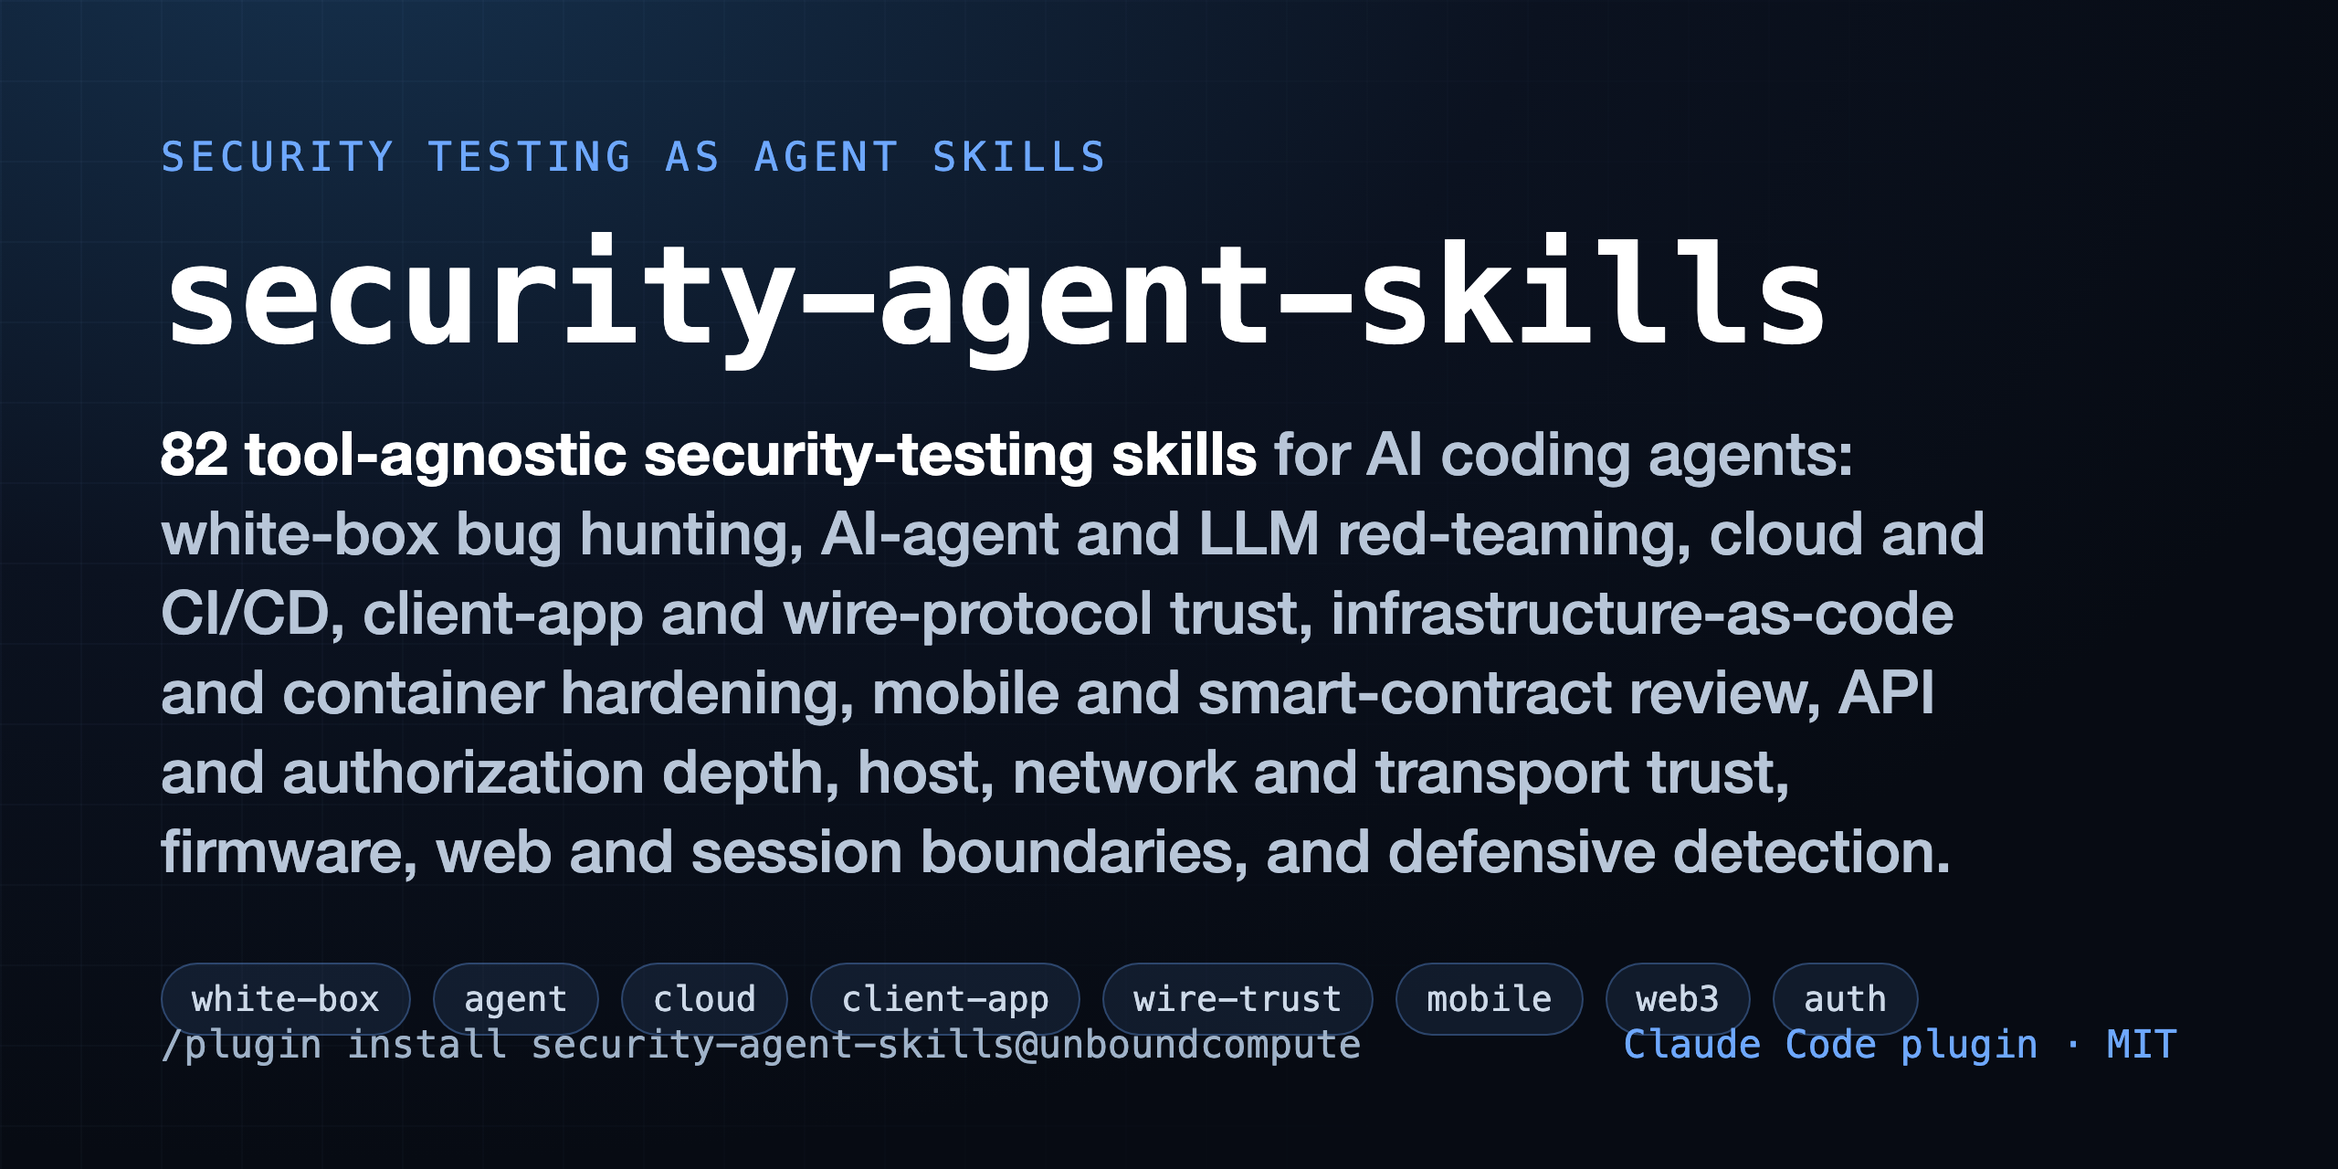
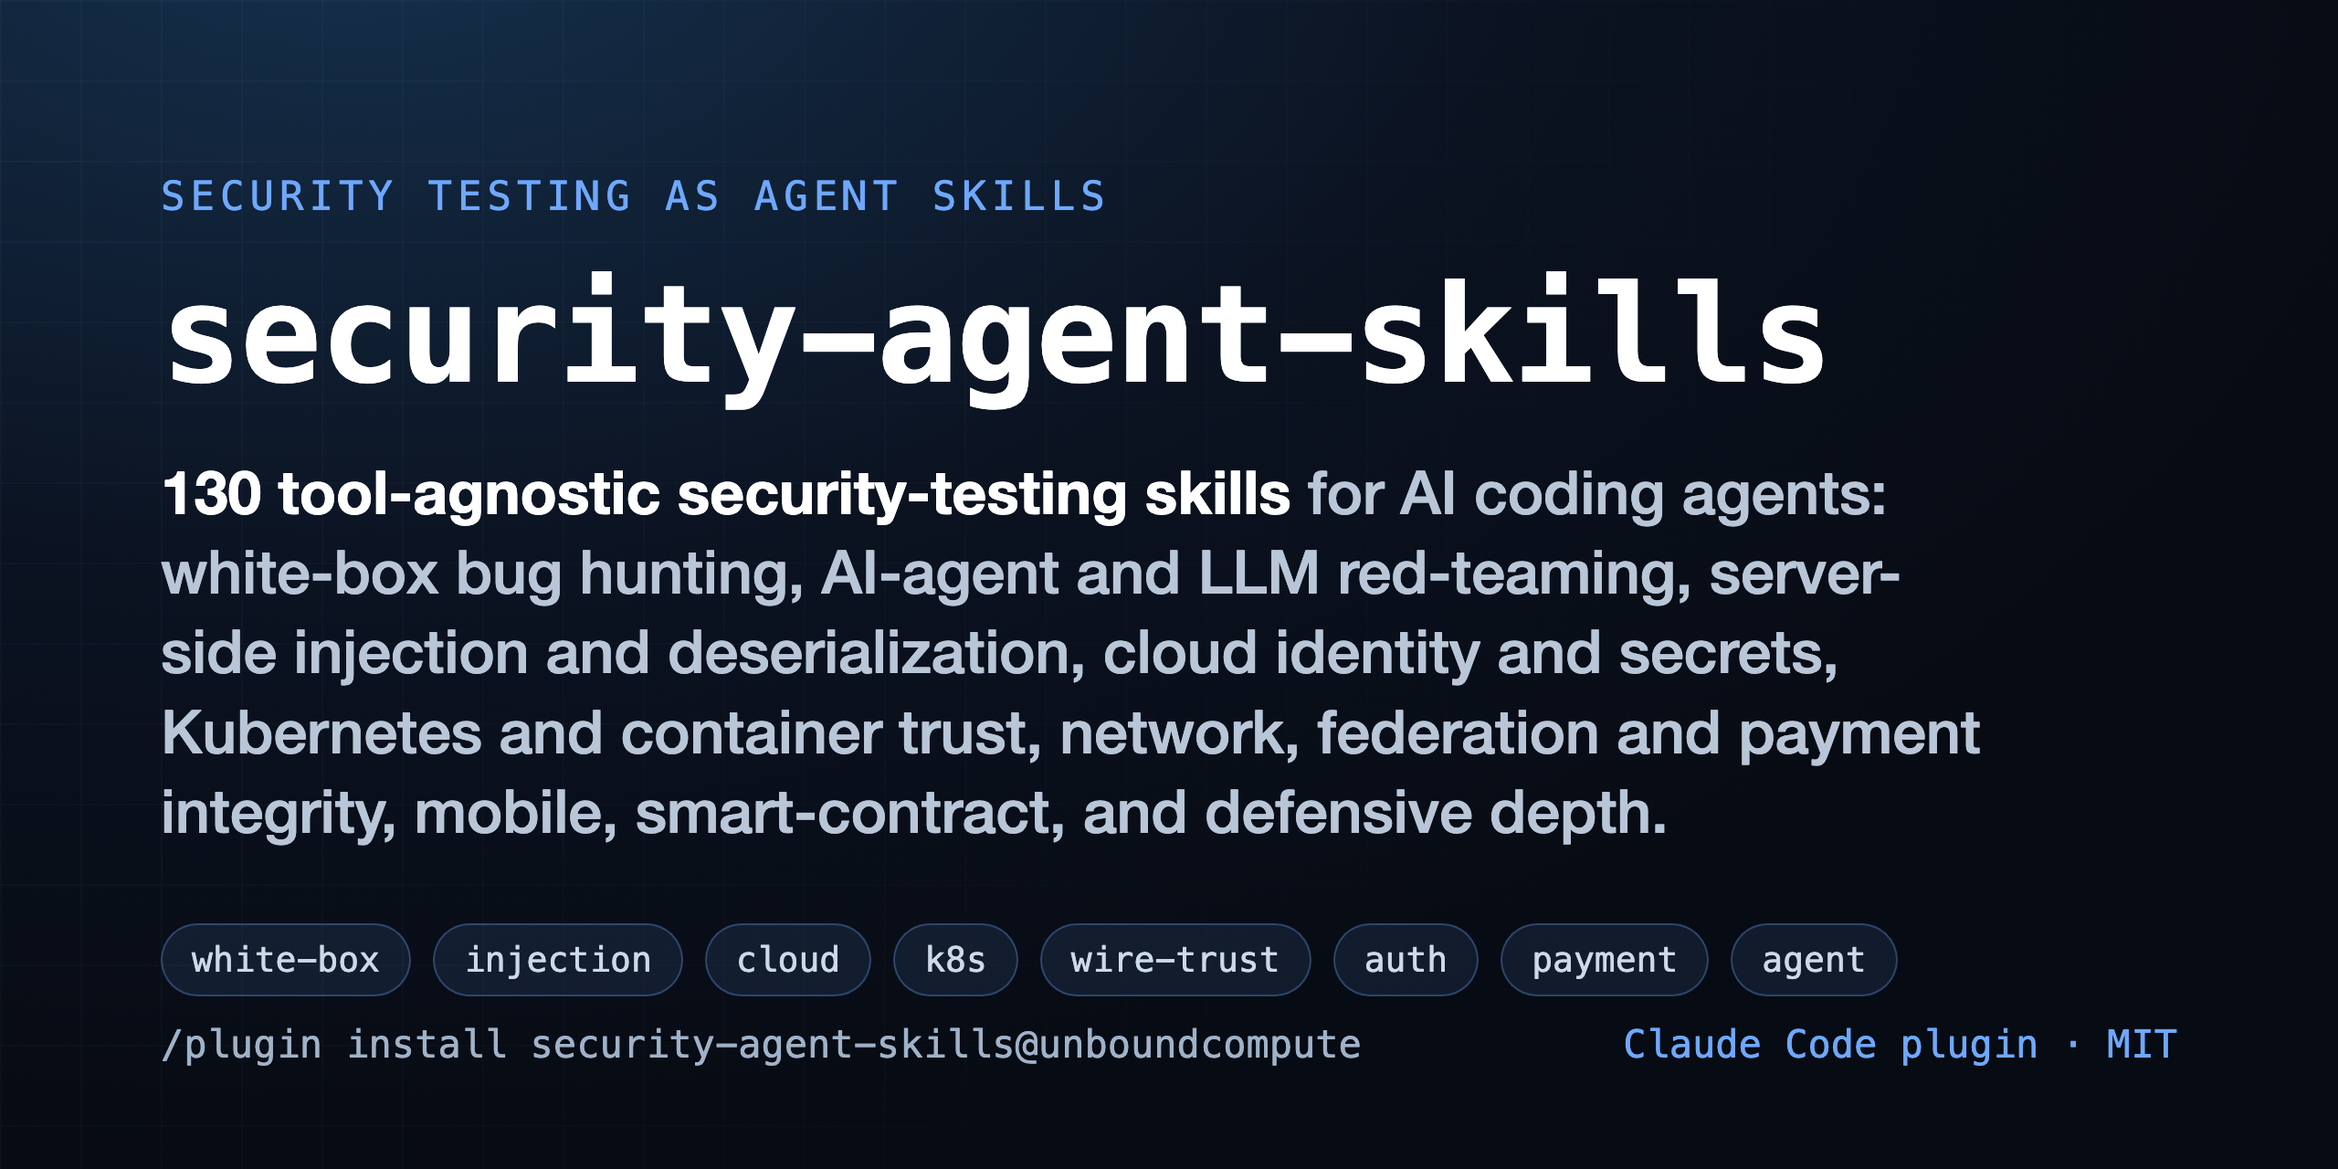
Wire up v0.11.0: 130 skills across four new depth batches
Bump plugin and marketplace to 0.11.0 with new keywords, update the
README badge, hero, skills table (48 new rows), and roadmap, add the
0.11.0 changelog entry, and refresh the social preview to 130 skills.

The wave adds server-side injection and deserialization, cloud identity
and secrets and KMS trust, Kubernetes and container and host workload
trust, and network, federation, and payment integrity. The emerging
surfaces batch is deferred to the next version.

Changed region(s): [[0.0625, 0.125, 0.875, 0.75], [0.0625, 0.8125, 0.8125, 0.875], [0.0625, 0.125, 0.1562, 0.1875]]

diff --git a/README.md b/README.md
@@ -1,21 +1,23 @@
 # security-agent-skills
 
 ![license](https://img.shields.io/badge/license-MIT-blue?style=flat-square)
-![skills](https://img.shields.io/badge/skills-82-2ea44f?style=flat-square)
+![skills](https://img.shields.io/badge/skills-130-2ea44f?style=flat-square)
 ![Claude Code plugin](https://img.shields.io/badge/Claude%20Code-plugin-8A63D2?style=flat-square)
 ![method](https://img.shields.io/badge/method-tool--agnostic-orange?style=flat-square)
 
-**82 tool-agnostic security-testing skills for AI coding agents: white-box bug
-hunting, AI-agent and LLM red-teaming, cloud identity and CI/CD trust,
+**130 tool-agnostic security-testing skills for AI coding agents: white-box bug
+hunting, AI-agent and LLM red-teaming, server-side injection and deserialization
+depth across SQL, NoSQL, LDAP, expression-language, and object streams, cloud
+identity, secrets, and KMS trust, infrastructure-as-code and container/Kubernetes
+and host workload trust, network, wire-protocol, and multiplexing trust across
+HTTP/2, gRPC, message brokers, and mutual TLS, federation and token trust across
+SAML, OIDC, OAuth, and JWT, account-recovery and payment-and-commerce integrity,
 client-app trust surfaces across browser and editor extensions and Electron,
-wire-protocol and token trust across gRPC, WebSocket, and JWT,
-infrastructure-as-code and container hardening, mobile app security, smart-contract
-and DeFi review across EVM and Move, skill and supply-chain trust, API and
-object-authorization depth, host and network-service trust, firmware and
+mobile app security, smart-contract and DeFi review across EVM and Move, skill and
+supply-chain trust, API and object-authorization depth, firmware and
 embedded-software trust, web and transport trust boundaries, authentication and
-session depth, rate-limiting and multi-tenant isolation, injection,
-file-upload, and resource-exhaustion depth, defensive detection and logging, and
-appsec depth.**
+session depth, rate-limiting and multi-tenant isolation, file-upload and
+resource-exhaustion depth, defensive detection and logging, and appsec depth.**
 
 Agent skills that encode security-testing *methodology*: the reasoning, ordering,
 and adjudication discipline behind real black-box and white-box testing, written
@@ -153,6 +155,54 @@ tools at each step and emitting findings in the shared schema.
 | [auditing-smart-contract-access-control](skills/auditing-smart-contract-access-control) | web3 | Who may call the privileged function: missing modifiers, unprotected initializers, attacker delegatecall |
 | [hunting-defi-economic-and-oracle-flaws](skills/hunting-defi-economic-and-oracle-flaws) | web3 | Profiting by moving a price nobody bounded: spot-oracle and flash-loan manipulation, rounding, share math |
 | [auditing-move-resource-ownership](skills/auditing-move-resource-ownership) | web3 | Move (Aptos and Sui): acting on a resource without proving ownership, capability leaks, ability misuse |
+| [hunting-blind-and-second-order-sql-injection](skills/hunting-blind-and-second-order-sql-injection) | injection | Boolean, time, and error blind paths, plus stored input that executes on a later read |
+| [hunting-nosql-operator-and-where-injection](skills/hunting-nosql-operator-and-where-injection) | injection | A value arriving as a query operator or a server-side where/JS expression |
+| [hunting-ldap-injection-and-bind-trust](skills/hunting-ldap-injection-and-bind-trust) | injection | Filter injection and bind logic that lets input decide authentication |
+| [hunting-expression-language-injection](skills/hunting-expression-language-injection) | injection | Template and expression contexts that evaluate a string as a program |
+| [hunting-search-engine-injection](skills/hunting-search-engine-injection) | injection | Query-DSL and script-query injection into a search backend |
+| [hunting-connection-string-and-jdbc-url-injection](skills/hunting-connection-string-and-jdbc-url-injection) | injection | Attacker-set connection targets and driver properties that load or exfiltrate |
+| [hunting-server-side-prototype-pollution](skills/hunting-server-side-prototype-pollution) | injection | One request mutating a base prototype to change every object's behavior |
+| [hunting-java-deserialization-gadget-chains](skills/hunting-java-deserialization-gadget-chains) | deserialization | Untrusted object streams reaching a gadget chain that runs code on read |
+| [hunting-python-unsafe-deserialization](skills/hunting-python-unsafe-deserialization) | deserialization | pickle, YAML, and loaders that call a function while loading data |
+| [hunting-php-object-injection-pop-chains](skills/hunting-php-object-injection-pop-chains) | deserialization | unserialize reaching a property-oriented chain through magic methods |
+| [hunting-dotnet-deserialization-type-injection](skills/hunting-dotnet-deserialization-type-injection) | deserialization | Type-name-carrying formatters that instantiate an attacker-chosen type |
+| [auditing-datastore-exposure-and-abuse](skills/auditing-datastore-exposure-and-abuse) | datastore | Unauthenticated caches and databases reachable as a command surface |
+| [auditing-presigned-url-scope-abuse](skills/auditing-presigned-url-scope-abuse) | cloud | Signed URLs granting more path, method, or lifetime than the request intended |
+| [auditing-cross-account-role-trust-boundaries](skills/auditing-cross-account-role-trust-boundaries) | cloud | Trust policies that admit the wrong external principal without a condition |
+| [mapping-service-account-impersonation-chains](skills/mapping-service-account-impersonation-chains) | cloud | Token, impersonation, and key grants that let one identity become another |
+| [auditing-ecs-task-metadata-boundaries](skills/auditing-ecs-task-metadata-boundaries) | cloud | Containers reaching task or instance credentials they should not |
+| [reviewing-secrets-manager-access-policy-trust](skills/reviewing-secrets-manager-access-policy-trust) | cloud | Who can actually read a secret across resource, identity, and key policy |
+| [auditing-kms-key-policy-and-envelope-encryption](skills/auditing-kms-key-policy-and-envelope-encryption) | cloud | Who can decrypt: key-policy grants, grants, and envelope-key reach |
+| [auditing-observability-pipeline-collector-trust](skills/auditing-observability-pipeline-collector-trust) | cloud | Telemetry collectors trusting the payload or its source as input |
+| [auditing-s3-object-ownership-trust](skills/auditing-s3-object-ownership-trust) | cloud | When the object, not the bucket, decides who can read or overwrite |
+| [auditing-iac-module-and-provider-supply-chain](skills/auditing-iac-module-and-provider-supply-chain) | iac | Third-party modules and providers running code at plan and apply |
+| [auditing-terraform-state-and-backend-trust](skills/auditing-terraform-state-and-backend-trust) | iac | State files and backends that expose secrets or accept tampering |
+| [hunting-helm-template-and-values-injection](skills/hunting-helm-template-and-values-injection) | iac | Chart values that render into manifests as privilege or injection |
+| [auditing-ansible-become-and-vault-trust](skills/auditing-ansible-become-and-vault-trust) | iac | Privilege escalation, vault handling, and control-node trust in playbooks |
+| [hunting-container-escape-surface](skills/hunting-container-escape-surface) | k8s | Privileged, capability, and mount configurations that reach the host |
+| [auditing-admission-control-policy-gaps](skills/auditing-admission-control-policy-gaps) | k8s | Admission policies that fail open, miss resources, or can be bypassed |
+| [mapping-pod-to-cloud-credential-reach](skills/mapping-pod-to-cloud-credential-reach) | k8s | The cloud blast radius of one compromised pod's identity |
+| [auditing-network-policy-segmentation-gaps](skills/auditing-network-policy-segmentation-gaps) | k8s | Default-open pod networking and policies that do not actually segment |
+| [auditing-service-mesh-mtls-and-authz-trust](skills/auditing-service-mesh-mtls-and-authz-trust) | k8s | Mesh mTLS and authorization asserting a trust it does not enforce |
+| [auditing-workload-secret-exposure-surface](skills/auditing-workload-secret-exposure-surface) | k8s | Every reader of a workload secret: env, volume, RBAC, and node |
+| [hunting-kubelet-and-node-api-exposure](skills/hunting-kubelet-and-node-api-exposure) | k8s | Kubelet and node APIs exposing exec, logs, and workload control |
+| [auditing-namespace-as-tenant-boundary](skills/auditing-namespace-as-tenant-boundary) | k8s | What a namespace does not isolate when treated as a tenant boundary |
+| [auditing-init-and-sidecar-injection-trust](skills/auditing-init-and-sidecar-injection-trust) | k8s | Injected init and sidecar containers sharing a pod's trust |
+| [auditing-container-image-provenance](skills/auditing-container-image-provenance) | container | Mutable tags, unverified signatures, and image-to-artifact drift |
+| [auditing-container-runtime-and-socket-exposure](skills/auditing-container-runtime-and-socket-exposure) | container | A runtime socket or API handle that is a handle on the host |
+| [auditing-host-mount-and-device-exposure](skills/auditing-host-mount-and-device-exposure) | container | Host path and device mounts opening a route into the node filesystem |
+| [hunting-http-request-smuggling-and-desync](skills/hunting-http-request-smuggling-and-desync) | network | Front-end and back-end parsers disagreeing on where a request ends |
+| [hunting-dns-rebinding-and-ssrf-pivots](skills/hunting-dns-rebinding-and-ssrf-pivots) | network | SSRF, DNS rebinding, and redirect pivots turning the server into a proxy |
+| [auditing-http2-and-grpc-multiplexing-trust](skills/auditing-http2-and-grpc-multiplexing-trust) | wire-trust | h2c downgrade, pseudo-header forgery, and per-stream versus per-connection trust |
+| [auditing-message-broker-topic-authorization](skills/auditing-message-broker-topic-authorization) | wire-trust | Topic ACLs, wildcard subscribes, and cross-tenant reach on MQTT, Kafka, and AMQP |
+| [hunting-mutual-tls-and-service-identity-gaps](skills/hunting-mutual-tls-and-service-identity-gaps) | wire-trust | Certificates requested not required, chain validity mistaken for identity |
+| [auditing-oauth-token-audience-and-scope-trust](skills/auditing-oauth-token-audience-and-scope-trust) | auth | Audience, issuer, and scope confusion accepting a token outside its domain |
+| [auditing-saml-and-oidc-federation-trust](skills/auditing-saml-and-oidc-federation-trust) | auth | Signature wrapping, issuer/audience/nonce, and unbound subject in federation |
+| [auditing-jwt-verification-and-key-trust](skills/auditing-jwt-verification-and-key-trust) | auth | Algorithm confusion, attacker-chosen keys, decode-without-verify, unenforced claims |
+| [auditing-account-recovery-and-reset-trust](skills/auditing-account-recovery-and-reset-trust) | auth | Weak reset tokens, multi-factor bypass, and host-poisoned reset links |
+| [auditing-payment-state-machine-and-idempotency](skills/auditing-payment-state-machine-and-idempotency) | payment | Out-of-order and replayed transitions releasing value before settlement |
+| [auditing-payment-callback-and-amount-integrity](skills/auditing-payment-callback-and-amount-integrity) | payment | Forged callbacks and unreconciled amounts marking an order paid |
+| [hunting-price-and-coupon-manipulation](skills/hunting-price-and-coupon-manipulation) | payment | Client-set prices, negative quantities, and coupon stacking that lower the total |
 | [writing-vuln-reports](skills/writing-vuln-reports) | reporting | Confirmed finding to a reproducible writeup |
 
 Every finding, from any skill, is emitted in the shared
@@ -227,6 +277,34 @@ on a small target. The method does not depend on which.
       editor-extension workspace trust, Electron renderer-to-native IPC trust
 - [x] Wire-protocol and token trust: gRPC service authorization, WebSocket
       connection trust, JWT verification trust
+- [x] Server-side injection and deserialization depth: blind and second-order
+      SQL, NoSQL operator and where injection, LDAP injection and bind trust,
+      expression-language injection, search-engine injection, connection-string
+      and JDBC-URL injection, server-side prototype pollution, and Java,
+      Python, PHP, and .NET deserialization gadget and object-injection chains,
+      plus unauthenticated datastore exposure
+- [x] Cloud identity, secrets, and IaC trust: presigned-URL scope, cross-account
+      role trust boundaries, service-account impersonation chains, ECS task
+      metadata boundaries, secrets-manager and KMS access trust, S3
+      object-ownership trust, observability-collector trust, IaC module and
+      provider supply chain, Terraform state and backend trust, Helm
+      template/values injection, and Ansible become and vault trust
+- [x] Kubernetes, container, and host workload trust: container escape surface,
+      admission-control policy gaps, image provenance, pod-to-cloud credential
+      reach, network-policy segmentation, service-mesh mTLS and authz, workload
+      secret exposure, kubelet and node-API exposure, namespace-as-tenant
+      boundary, runtime and socket exposure, init/sidecar injection trust, and
+      host mount and device exposure
+- [x] Network, multiplexing, and service-identity trust: HTTP request smuggling
+      and desync, DNS rebinding and SSRF pivots, HTTP/2 and gRPC multiplexing
+      trust, message-broker topic authorization, and mutual-TLS service identity
+- [x] Federation, token, and recovery trust: OAuth audience and scope, SAML and
+      OIDC federation, JWT verification and key trust, and account-recovery and
+      reset trust
+- [x] Payment and commerce integrity: payment state machine and idempotency,
+      payment callback and amount integrity, and price and coupon manipulation
+- [ ] Emerging surfaces (next): AI application, web3 frontend, browser and
+      IoT/edge trust
 
 ## Design
 

diff --git a/CHANGELOG.md b/CHANGELOG.md
@@ -3,6 +3,53 @@
 Notable changes to this skill library. Versions follow the plugin version in
 `.claude-plugin/plugin.json`.
 
+## 0.11.0
+
+A depth wave across the server-and-infrastructure trust surface, growing the
+library from 82 to 130 skills in four batches of twelve, each batch a coherent
+lane and each skill leading with the false-positive killer a scanner skips.
+
+The first batch is server-side injection and deserialization. Blind and
+second-order SQL injection covers the paths first-order testing walks past;
+NoSQL operator and where injection catches a value arriving as an operator or a
+server-side expression; LDAP injection and bind trust decides whether a filter
+or a bind authenticates the wrong identity; expression-language and
+search-engine injection find a string evaluated as a program or a query DSL;
+connection-string and JDBC-URL injection catch an attacker-set connection
+target; server-side prototype pollution catches one request changing every
+object. The deserialization set covers Java gadget chains, Python pickle and
+loader calls, PHP object injection and POP chains, and .NET type injection,
+where reading an object runs code or picks the type. Datastore exposure and
+abuse closes the batch on the unauthenticated cache or database reachable as a
+command surface.
+
+The second batch is cloud identity, secrets, and IaC trust: presigned-URL scope
+abuse, cross-account role trust boundaries, service-account impersonation
+chains, ECS task metadata boundaries, secrets-manager and KMS access-policy
+trust, S3 object-ownership trust, observability-pipeline collector trust, IaC
+module and provider supply chain, Terraform state and backend trust, Helm
+template and values injection, and Ansible become and vault trust. Each answers
+who can actually reach a credential, a secret, or a plan-time code path.
+
+The third batch is Kubernetes, container, and host workload trust: container
+escape surface, admission-control policy gaps, image provenance, pod-to-cloud
+credential reach, network-policy segmentation, service-mesh mTLS and authz,
+workload secret exposure, kubelet and node-API exposure, the namespace as a
+tenant boundary, container runtime and socket exposure, init and sidecar
+injection trust, and host mount and device exposure. The wedge throughout is
+the difference between what a manifest declares and what the cluster and node
+actually allow.
+
+The fourth batch is network, identity, and payment trust: HTTP request
+smuggling and desync, DNS rebinding and SSRF pivots, HTTP/2 and gRPC
+multiplexing trust, message-broker topic authorization, OAuth audience and
+scope trust, SAML and OIDC federation trust, JWT verification and key trust,
+mutual-TLS service identity, account recovery and reset trust, payment state
+machine and idempotency, payment callback and amount integrity, and price and
+coupon manipulation. These trace a request from where two parsers disagree on
+its boundary, through how a service proves who is calling, to how value moves
+through checkout.
+
 ## 0.10.0
 
 A niche-depth wave, growing the library from 73 to 82 skills across two clean new
